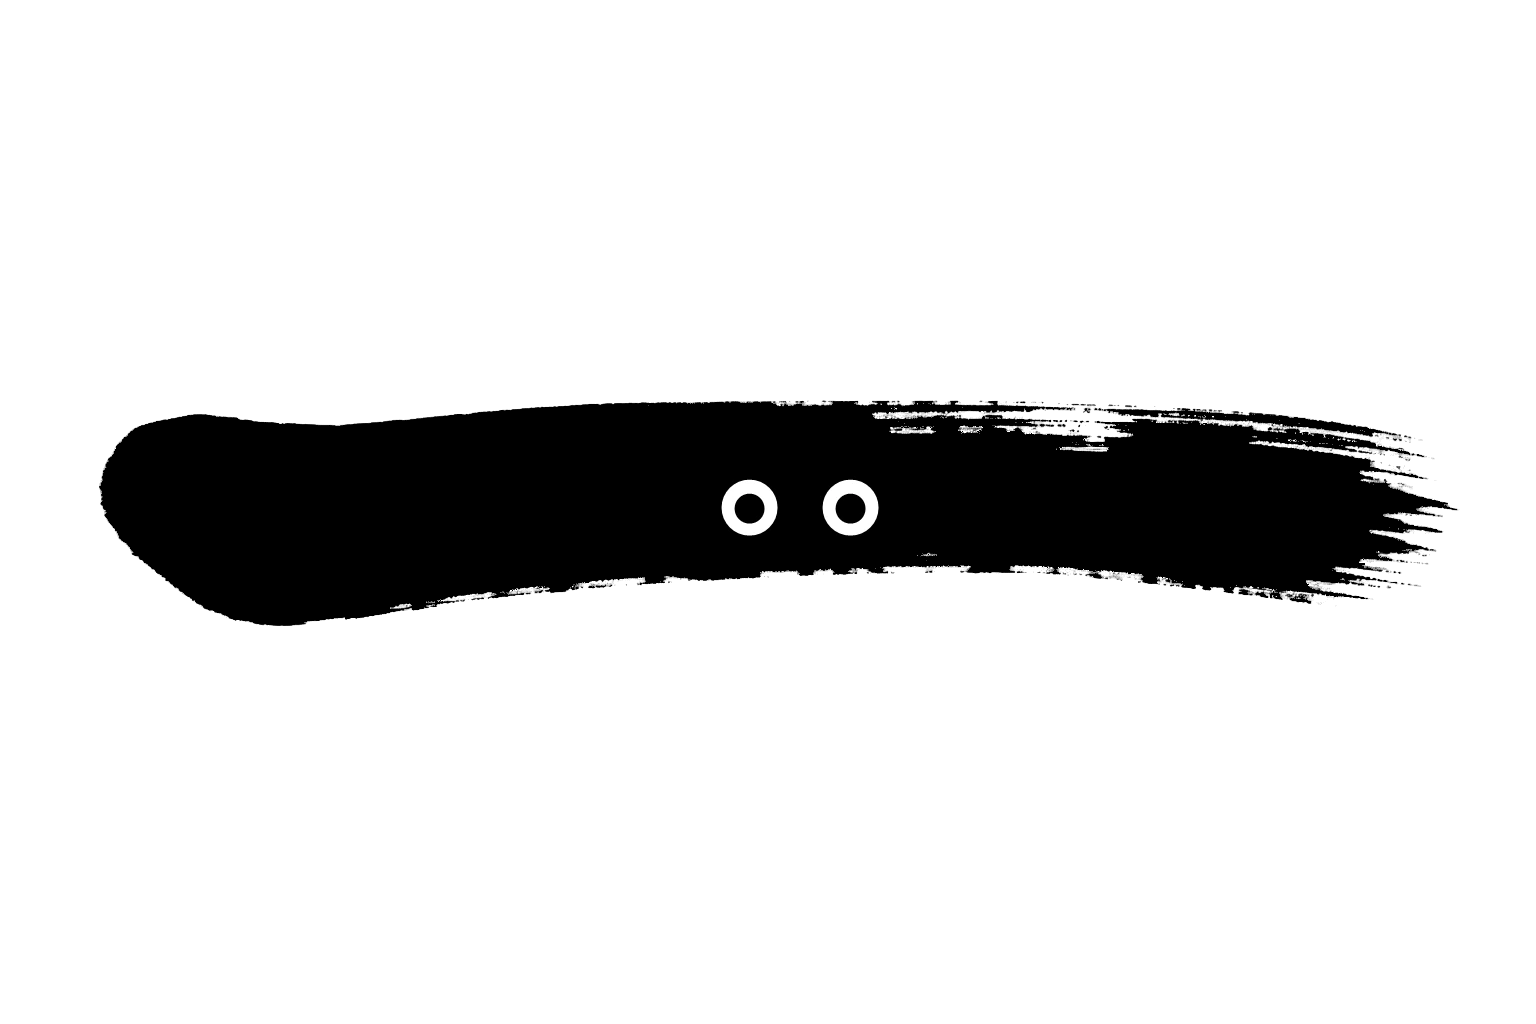
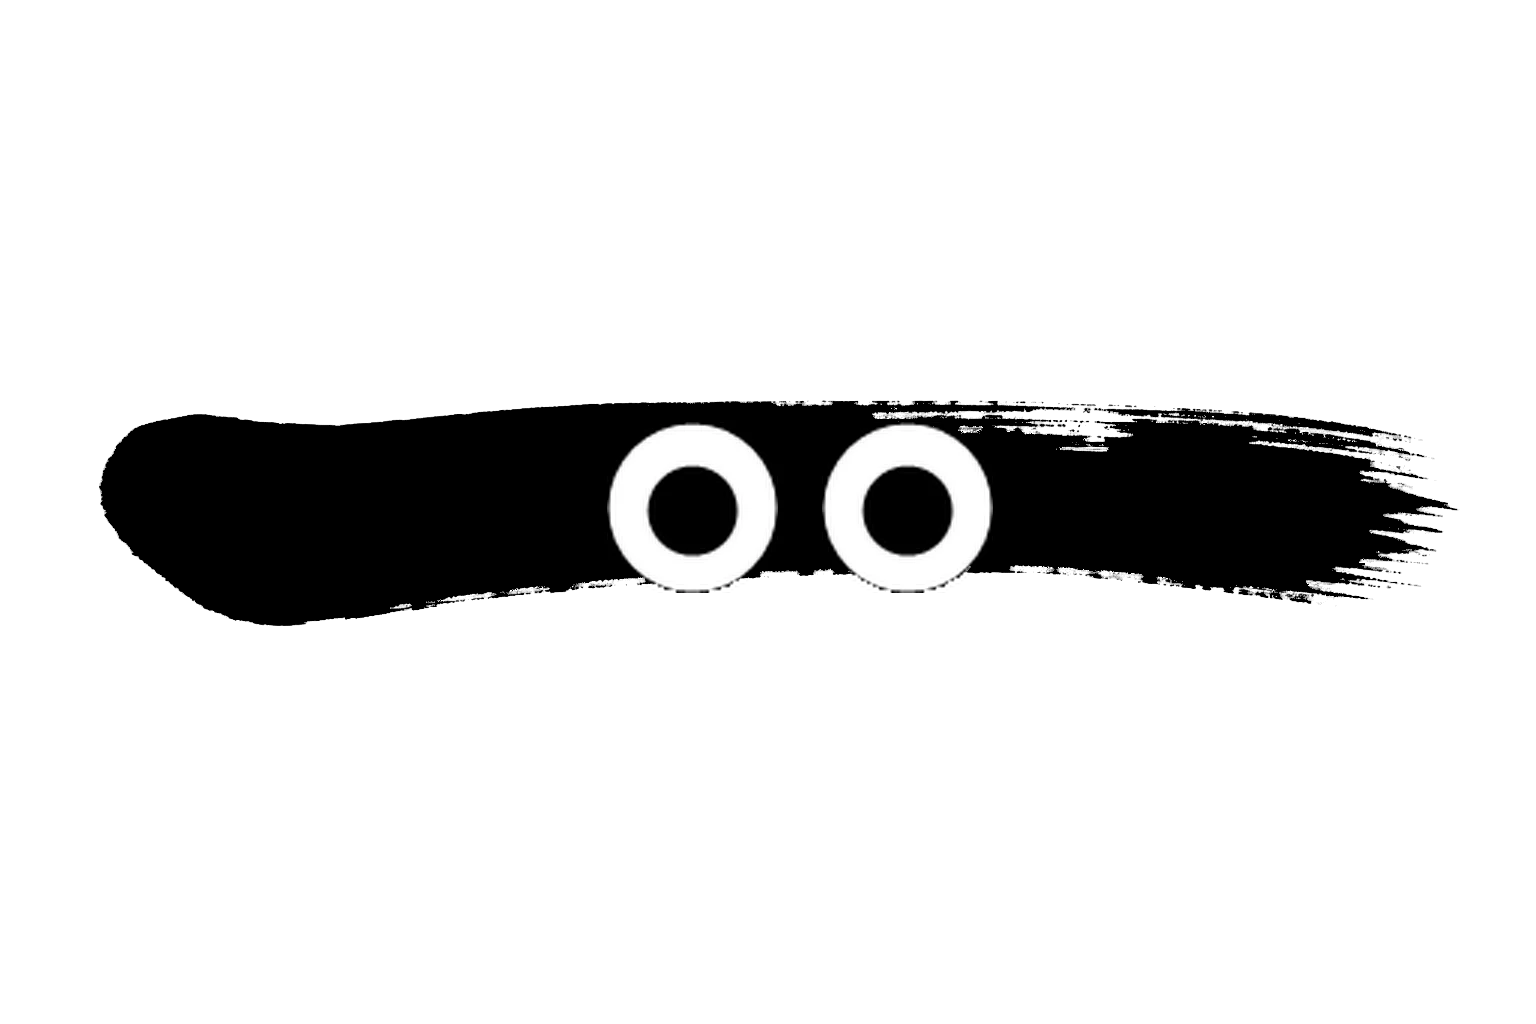
弾OP-3公開（選択かんじモン強調・AUTOえらび＋カントウ開放で手動切替説明・OP目口3倍）
Claude-Session: https://claude.ai/code/session_01BCroE8hVagoafUQqNLzUNk

Changed region(s): [[0.5312, 0.4062, 0.6562, 0.5938], [0.375, 0.4062, 0.5, 0.5938]]

diff --git a/play/index.html b/play/index.html
@@ -536,13 +536,18 @@
   .pbtn.pfield .sel-ring{position:absolute;left:50%;bottom:-.08em;transform:translateX(-50%) scale(.9);
     width:2.3em;height:.7em;border-radius:50%;pointer-events:none;opacity:0;
     background:radial-gradient(ellipse at center,rgba(255,224,102,.9) 0%,rgba(255,199,64,.5) 45%,rgba(255,224,102,0) 78%)}
-  .pbtn.pfield.sel{transform:translateY(-6px) scale(1.14)}
-  .pbtn.pfield.sel:active{transform:translateY(-3px) scale(1.08)}
+  /* 発注_OP3 作業1：選択中の一歩前浮き上がりを、はっきり分かる量へ強化（-6px→-14px前後） */
+  .pbtn.pfield.sel{transform:translateY(-14px) scale(1.14)}
+  .pbtn.pfield.sel:active{transform:translateY(-11px) scale(1.08)}
   .pbtn.pfield.sel .sel-ring{opacity:1;animation:pfieldRing 1.4s ease-in-out infinite}
   @keyframes pfieldRing{0%,100%{transform:translateX(-50%) scale(.92)}50%{transform:translateX(-50%) scale(1.1)}}
   /* 足元パラメータ札（Lv・げんき n/m・げんきバー・ヘトヘトタグ） */
   .pbtn.pfield .pfuda{position:relative;display:flex;flex-direction:column;align-items:center;gap:1px;
     background:rgba(255,255,255,.94);border-radius:9px;padding:3px clamp(4px,1.6vw,8px) 4px;box-shadow:0 2px 5px rgba(0,0,0,.2);min-width:30px}
+  /* 発注_OP3 作業1：選択中の子だけ札の外枠を太く赤く。box-shadowのリング方式（.pbtn.selと同じ技法）を採用＝
+     border追加だとボックスが実寸で6px前後広がり、320px幅・gap3px（@media(max-width:340px)）で隣の札と
+     接触しうるため、レイアウトに影響しないbox-shadowで「太い赤枠」を再現する（判断はOP3実装報告に明記） */
+  .pbtn.pfield.sel .pfuda{box-shadow:0 0 0 3px #e53935,0 2px 5px rgba(0,0,0,.2)}
   .pbtn.pfield .pfuda .tired-tag{position:static;transform:none;box-shadow:none;margin-bottom:1px;font-size:.58rem}
   .pbtn.pfield .pfuda-lv{font-size:.7rem;font-weight:900;color:#7c4a03;line-height:1.25;white-space:nowrap}
   .pbtn.pfield .pfuda-genki{font-size:.7rem;font-weight:900;color:#495057;line-height:1.25;white-space:nowrap}
@@ -1449,6 +1454,12 @@
       <span class="diff-label">ひらがなヒント</span>
       <button class="diff-pill" id="diffEasy" onclick="setDifficulty('easy')">なまえを なのる<br><small>（かんたん）</small></button>
       <button class="diff-pill" id="diffHard" onclick="setDifficulty('hard')">なまえは ひみつ<br><small>（むずかしい）</small></button>
+    </div>
+    <!-- 発注_OP3 作業2-2：AUTOえらび切替。難易度ピルと同じ場所・同じ見た目の作法（.diff-toggle/.diff-pill流用） -->
+    <div class="diff-toggle">
+      <span class="diff-label">こうげき えらび</span>
+      <button class="diff-pill" id="autoOn" onclick="setAutoPick(true)">AUTO<br><small>（じどうで えらぶ）</small></button>
+      <button class="diff-pill" id="autoOff" onclick="setAutoPick(false)">じぶんで<br><small>（タップして えらぶ）</small></button>
     </div>
   </section>
 
@@ -5175,6 +5186,9 @@ let shiny=new Set();    // オンヨミフォーム取得済み Kインデック
 // 弾3-8§1-2：発見済み四字熟語（辞書エントリ・文字列のセット。今回は'一心同体'の1件のみ）
 let yoji=new Set();
 let difficulty='easy';  // 'easy'(なまえをなのる) | 'hard'(なまえはひみつ)
+// 発注_OP3 作業2：AUTOえらび（カントウ開放まで自動選択）。新規ゲーム＝AUTOオン（既定値どおり）
+let autoPick=true;          // true=自動でこうげきする子を選ぶ／false=じぶんでタップ
+let autoPickExplained=false; // カントウ開放後の「じぶんで えらんでみて」説明カードを見せた（＝AUTOをオフにした）か
 let labSeen=false;      // けんきゅうじょを開いたことがあるか（NEWバッジ表示判定）
 let shinySeen=false;    // 色違いの初遭遇演出を見たか
 let intrudeSeen=false;  // おじゃまかんじもんの初回演出を見たか
@@ -5241,6 +5255,7 @@ function save(){
       caught:[...caught],bodies:[...bodies],unlocked:unlocked,cleared:[...cleared],
       levels:levels,party:party,sound:soundOn,tut:partyTutorialDone,
       jukugo:[...jukugo],shiny:[...shiny],difficulty:difficulty,
+      autoPick:autoPick,autoPickExplained:autoPickExplained,   // 発注_OP3 作業2
       labSeen:labSeen,shinySeen:shinySeen,intrudeSeen:intrudeSeen,
       fieldPos:fieldPos,introSeen:introSeen,zoneVisited:[...zoneVisited],
       freeZones:[...freeZones],heroChar:heroChar,
@@ -5400,6 +5415,19 @@ function load(){
     otetsudaiGuideSeen = (d.otetsudaiGuideSeen===true);
     interiorGuideSeen = (d.interiorGuideSeen===true);
     schoolTestGuideSeen = (d.schoolTestGuideSeen===true);
+    // 発注_OP3 作業2-1：AUTOえらびフラグのマイグレーション。
+    // フラグが有る（新形式）セーブはそのまま採用。フラグが無い（旧セーブ）場合は、
+    // 「カントウ地方が既に開放済み（ゾーン9が遊べる状態）」の既存判定＝unlocked>=STAGE1_COUNT+1 で分岐：
+    //   開放済み → もう自分で選ぶ操作に慣れている前提で「オフ＋説明済み」／未開放 → 「オン＋説明未」で初期化。
+    // ここに来る時点でunlockedは直前のcleared補正まで含めて確定済み（第5.5弾等の既存マイグレーションと同じ並び）。
+    if(typeof d.autoPick==='boolean'){
+      autoPick=d.autoPick;
+      autoPickExplained=(d.autoPickExplained===true);
+    }else if(unlocked>=STAGE1_COUNT+1){
+      autoPick=false; autoPickExplained=true;
+    }else{
+      autoPick=true; autoPickExplained=false;
+    }
     // 弾3-6§6-3：旧セーブ移行③「たびの つづき」通知の判定（cleared済みだが未訪問＝1回だけ次のフィールド表示で消費）
     pendingTravelContinueBanner = (!travelContinueSeen && cleared.has(STAGE2_COUNT) && !zoneVisited.includes(STAGE2_COUNT+1));
     // 弾4-6§6-3：旧セーブ移行③′。カンサイ→チュウブ側（44クリア済み・45未訪問）の「たびの つづき」通知
@@ -5935,6 +5963,9 @@ function updateTitle(){
   // 難易度ピル
   $('diffEasy').classList.toggle('on',difficulty==='easy');
   $('diffHard').classList.toggle('on',difficulty==='hard');
+  // 発注_OP3 作業2-2：AUTOえらびピル
+  $('autoOn').classList.toggle('on',autoPick);
+  $('autoOff').classList.toggle('on',!autoPick);
   // 第5.5弾：しゅじんこう切替ボタンは女の子画像があるときだけ（§2/§4）
   const hcb=$('heroChangeBtn');
   if(hcb) hcb.style.display = heroSelectAvailable() ? '' : 'none';
@@ -5942,6 +5973,11 @@ function updateTitle(){
 function setDifficulty(d){
   difficulty=d; save(); updateTitle();
   ensureAudio(); if(d==='hard') sfxWrong(); else sfxCorrect();
+}
+/* 発注_OP3 作業2-2：AUTOえらび切替（いつでも切替可能・切替は保存する）。カントウ開放前にオフにするのも自由 */
+function setAutoPick(v){
+  autoPick=!!v; save(); updateTitle();
+  ensureAudio(); sfxCorrect();
 }
 function goStages(){ showScreen('screen-stages'); }
 function goZukan(){ showScreen('screen-zukan'); }
@@ -6057,6 +6093,10 @@ let isIntruder=false, intrudeCount=0;    // おじゃまかんじもん（復習
 let phase='select';            // party モード: 'select' | 'quiz'
 let selectedAttacker=null;
 let combo=0;
+// 発注_OP3 作業2：AUTOえらびの実行時状態（セーブしない・バトル中のみ使うセッション値）
+let autoPickArmed=false;     // 700ms待機中か（他ボタン操作での中断判定・多重タイマー防止）
+let autoPickSeq=0;           // 世代カウンタ：新しい選択チャンスや中断のたびに+1し、古いタイマーを無効化する
+let autoPickRendering=false; // maybeAutoPickAttacker()からのrenderParty()再入を防ぐガード
 // 第4弾：フィールドからのバトル使い回し用
 let battleSource='quick';    // 'quick'(クイックバトル) | 'field'(フィールドからの1体バトル)
 let fieldIsBoss=false;       // フィールドで今の1体がボス漢字（ゲート開放対象）か
@@ -7044,6 +7084,9 @@ function renderParty(){
     ib.onclick=onGenkidamaBtnTap;
     row.appendChild(ib);
   }
+  // 発注_OP3 作業2：AUTOえらび。renderParty()が呼ばれるたび毎回チェックし、条件が揃った時だけ実行する
+  // （autoPickRendering中＝maybeAutoPickAttacker自身からの再入なので呼ばない＝無限再帰防止）
+  if(!autoPickRendering) maybeAutoPickAttacker();
 }
 /* 弾R-2：勝利ふり向き演出。heroVictoryPose中はhero-back画像を前向き勝利ポーズへ差し替える（無ければ従来どおり後ろ姿）。
    renderParty()が呼ばれるたびにも一貫して同じ画像を選ぶための共通口 */
@@ -7074,6 +7117,7 @@ function onGenkidamaBtnTap(){
   if(answering||evoLock) return;
   if(items.genkidama<=0) return;
   itemUseMode=!itemUseMode;
+  autoPickArmed=false; autoPickSeq++;   // 発注_OP3 作業2：げんきだまボタンを押した＝AUTOの待機演出があれば中断（手動操作を優先）
   if(itemUseMode) setMsg('🍙 だれに つかう？');
   else setMsg('かんじもんを えらぼう');
   renderParty();
@@ -7082,6 +7126,7 @@ function onGenkidamaBtnTap(){
 function useGenkidamaOn(idx){
   if(answering||evoLock) return;
   itemUseMode=false;
+  autoPickArmed=false; autoPickSeq++;   // 発注_OP3 作業2：げんきだま使用も操作の一種＝AUTOの待機演出を中断
   if(items.genkidama<=0 || !party.includes(idx)){ renderParty(); return; }
   items.genkidama--;
   genki[idx]=genkiMaxOf(idx);
@@ -7540,6 +7585,79 @@ function requiredHitsFor(attackerIdx,defenderIdx,defenderIsBoss){
   const aff=affinity(selfType, typeOf(defenderIdx));
   const affRel = aff>=2 ? 'batsugun' : (aff<1 ? 'nigate' : 'futsuu');
   return REQUIRED_HITS_TABLE[bandRel][affRel];
+}
+
+/* ==============================
+   発注_OP3 作業2：AUTOえらび（カントウ開放まで自動選択）
+   - 対象は「標準のパーティ選択フェーズ」のみ＝onPartyTapのデフォルト分岐（通常の野生・たましい・
+     おじゃまかんじもん・ふくしゅう乱入）。isJukugoBoss/isTwinBossは対象外にする：
+     この2つは onJukugoBossPartyTap/onTwinBossPartyTap という別のタップハンドラを持ち、相手が
+     K配列のインデックスを持たない（熟語オブジェクト）ため、既存のrequiredHitsFor(attackerIdx,
+     defenderIdx,...)がそのままでは使えない＝判定式が要求する「必要正解数」の土台が無い。
+     ボス戦は従来どおり手動選択のまま（発注書に明記の除外は無いが、最も整合的な解釈として除外）。
+   - オープニングOP-1のチュートリアルバトルは、renderParty()/onPartyTapを一切呼ばない完全に別の
+     オーバーレイ（op1Overlay系）で完結しているため、このフックの対象に自然と含まれない。
+================================ */
+/* ヘトヘトでない子の中から、必要正解数が最少の子を選ぶ。同点はレベルが高い方、それも同点なら
+   partyの並び順で先（＝列の左）を優先。usableはparty順を保ったまま絞り込むため、走査を
+   「厳密に上回った時だけ更新」にすることで、同点タイの左優先を自然に満たす（追加の分岐不要） */
+function autoPickBestIdx(){
+  const usable=party.filter(i=>genkiOf(i)>GENKI_TIRED);
+  if(usable.length===0) return null;
+  let best=null, bestHits=Infinity, bestLv=-1;
+  usable.forEach(i=>{
+    const hits=requiredHitsFor(i, enemyIdx, enemyIsBoss);
+    const lv=levelOf(i);
+    if(hits<bestHits || (hits===bestHits && lv>bestLv)){
+      best=i; bestHits=hits; bestLv=lv;
+    }
+  });
+  return best;
+}
+/* renderParty()の末尾から毎回呼ばれる。実際に何かするのは「AUTOオン・party戦・選択フェーズ・
+   ボス戦以外・操作ブロック中でない」ときだけ。多重発火はautoPickArmedで防ぐ */
+function maybeAutoPickAttacker(){
+  if(!autoPick || battleMode!=='party' || phase!=='select') return;
+  if(answering || evoLock || itemUseMode) return;
+  if(isJukugoBoss || isTwinBoss) return;
+  if(party.length===0 || enemyIdx==null) return;
+  // カントウ開放時の切り替え：AUTOオンのまま開放済み状態で選択フェーズに入った最初の1回だけ、
+  // 説明カード＋音声(bh12)を出してAUTOをオフにし、このバトルから手動選択にする（自動選択はしない）
+  if(unlocked>=STAGE1_COUNT+1 && !autoPickExplained){
+    autoPickExplained=true; autoPick=false; save();
+    autoPickArmed=false; autoPickSeq++;   // 進行中の自動選択タイマーがあれば無効化
+    // 検品差し戻し対応（不具合B）：ここ（renderParty()の中）はspawnEnemy等の演出初期化の途中で、
+    // この数行後に「前の敵の残りカードを消す」既存の無条件hideBattleHakase()が必ず呼ばれる。
+    // 同期処理内で表示するとその場で消されてしまうため、setTimeout(...,0)で今の同期処理が
+    // 終わってから表示する（spawnEnemy側やhideBattleHakase自体は一切変更しない）
+    setTimeout(()=>{
+      showBattleHakase('ここからは こうげきする かんじもんを じぶんで えらんでみて！ あいしょうの いい こを えらぶと、すこしの せいかいで こえが とどくのよ。じどうで えらんで ほしいときは、タイトルの AUTO を オンに してね','bh12');
+    },0);
+    return;
+  }
+  if(autoPickArmed) return;   // 既に自動選択の待機演出中（多重起動防止）
+  const idx=autoPickBestIdx();
+  if(idx==null) return;
+  autoPickArmed=true;
+  const seq=++autoPickSeq;
+  const seqAtArm=spawnSeq;   // バトル自体が切り替わっていないかの安全網（既存spawnSeq流儀）
+  selectedAttacker=idx;
+  autoPickRendering=true; renderParty(); autoPickRendering=false;   // 選ばれた子に.selを付けて見せる
+  updateBattleHud();
+  setTimeout(()=>{ autoPickFireWhenReady(idx,seq,seqAtArm); },700);
+}
+/* 検品差し戻し対応（不具合A）：700ms経過時点でまだ敵の登場演出ロック中（answering/evoLock＝
+   spawnEnemy等がENTRY_MS/BOSS_ENTRY_MSの間trueにしている）だと、そのまま諦めて二度と再挑戦しない
+   実装になっていたため、AUTOオンでも毎回「ハイライトは出るがこうげきへ進まない」まま止まっていた。
+   ロック中は諦めずに100ms間隔で再チェックし、ロックが明けた瞬間にonPartyTap(idx)を呼ぶ。
+   seq/seqAtArmの世代チェックは毎回必ず行う＝他ボタン操作・新ラウンド・バトル離脱があれば
+   古い待機は自然に消える（無限ポーリングにはならない） */
+function autoPickFireWhenReady(idx,seq,seqAtArm){
+  if(seq!==autoPickSeq || seqAtArm!==spawnSeq) return;   // 中断済み（他ボタン操作／新ラウンド／バトル離脱）
+  if(!autoPick || battleMode!=='party' || phase!=='select' || itemUseMode){ autoPickArmed=false; return; }
+  if(answering || evoLock){ setTimeout(()=>autoPickFireWhenReady(idx,seq,seqAtArm),100); return; }   // 演出ロック明けを待って再挑戦
+  autoPickArmed=false;
+  onPartyTap(idx);   // タップしたのと同じ流れでこうげきへ進む
 }
 
 /* --- てもちバトル（ステージ3以降・第10弾§2-5でゾーン1〜2も） --- */